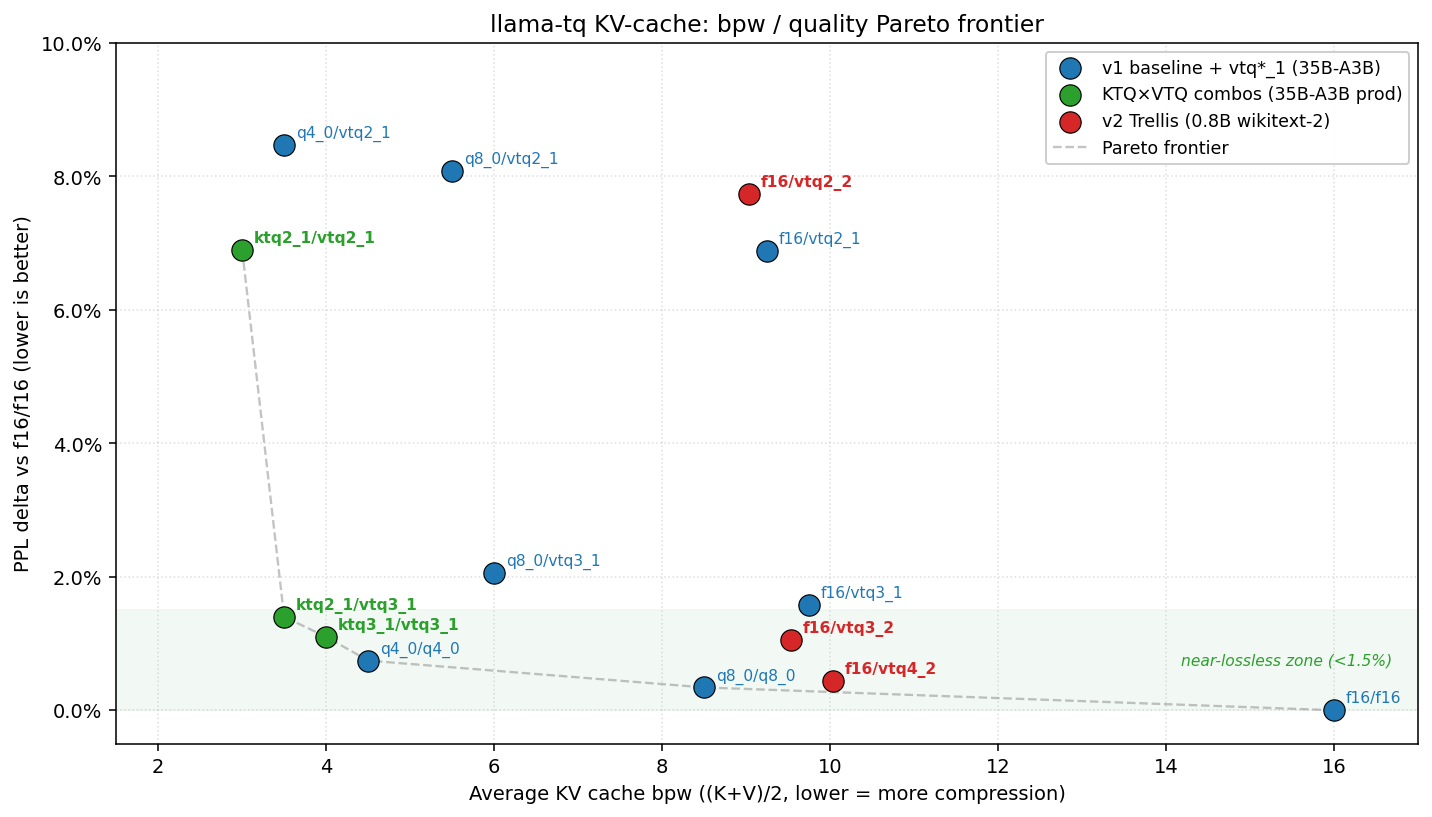
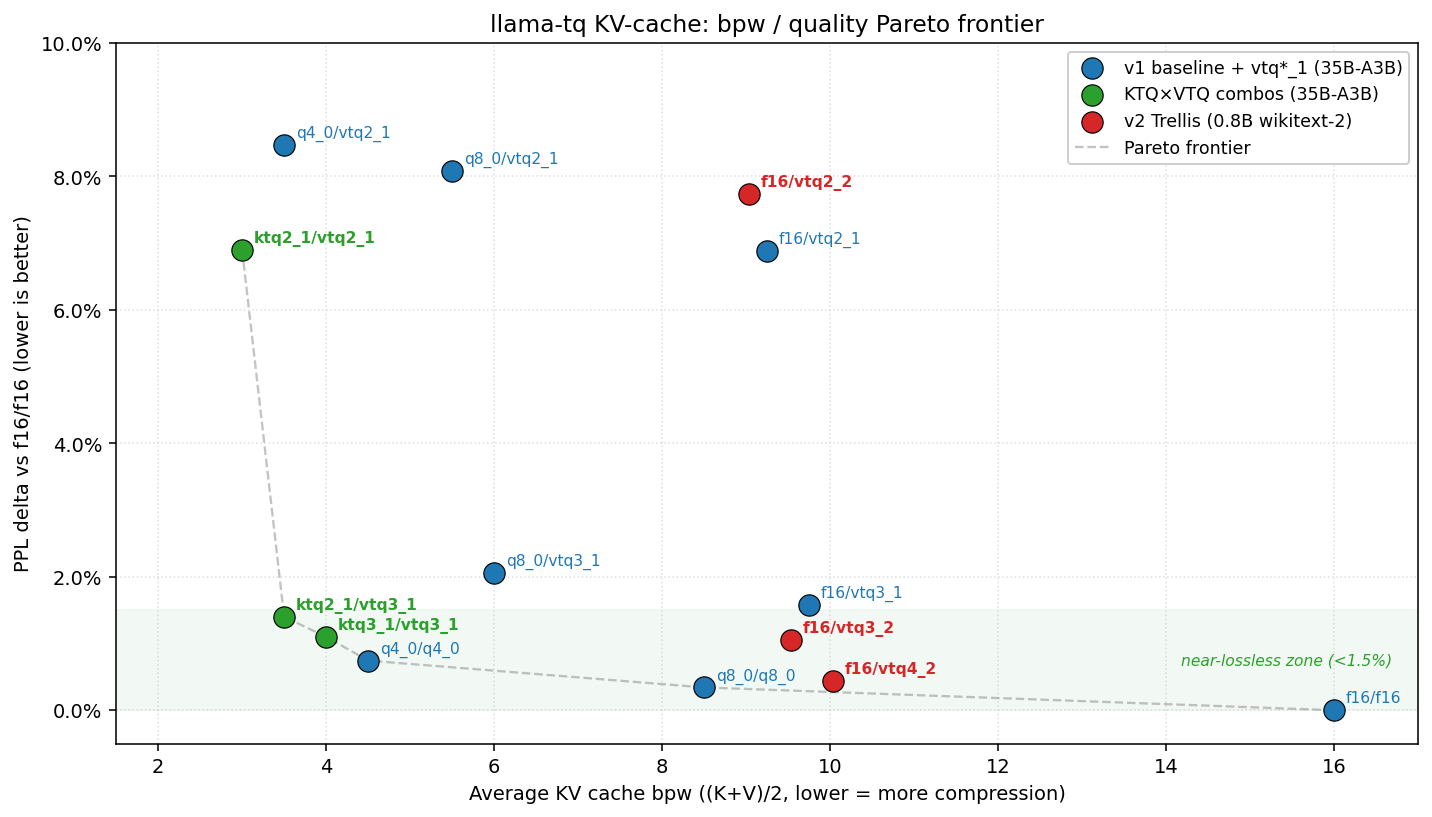
docs: drop remaining 'prod' references (chart label + vtq2_1 row)

Changed region(s): [[0.7374, 0.0612, 0.9832, 0.2142]]

diff --git a/bench/plots/gen_charts.py b/bench/plots/gen_charts.py
@@ -84,7 +84,7 @@ def chart_ppl_vs_bpw():
             v1_points.append((f"{k}/{v}", avg_bpw(k, v),
                               sub["ppl_delta_pct"].mean()))
 
-    # KTQ×VTQ combos — from production deploy measurements on test-rig
+    # KTQ×VTQ combos — measured on the 35B-A3B test box
     # (source: docs/bench-qwen35-122b-a10b.md + devlogs for 35B).
     # These are representative configs not fully in benchmarks.csv yet.
     ktq_vtq_points = [
@@ -113,7 +113,7 @@ def chart_ppl_vs_bpw():
                    edgecolor="black", linewidth=0.6, label=label)
 
     plot_group(v1_points,       "#1f77b4", "o", 120, "v1 baseline + vtq*_1 (35B-A3B)")
-    plot_group(ktq_vtq_points,  "#2ca02c", "o", 120, "KTQ×VTQ combos (35B-A3B prod)", weight="bold")
+    plot_group(ktq_vtq_points,  "#2ca02c", "o", 120, "KTQ×VTQ combos (35B-A3B)",      weight="bold")
     plot_group(v2_points,       "#d62728", "o", 120, "v2 Trellis (0.8B wikitext-2)",  weight="bold")
 
     # Pareto frontier

diff --git a/README.md b/README.md
@@ -87,7 +87,7 @@ Fixed D·H·D rotation (sign-diagonal · FWHT · sign-diagonal) applied once at 
 | Type | Index bits | bpw | Block | Intended use |
 |------|:---:|:---:|:---:|---|
 | `vtq1_1` | 1 | 1.5 | 6 B | extreme VRAM, quality drops sharply |
-| `vtq2_1` | 2 | 2.5 | 10 B | production long-ctx default |
+| `vtq2_1` | 2 | 2.5 | 10 B | long-ctx default |
 | `vtq3_1` | 3 | 4.0 | 16 B | near-f16 V-cache for quality-sensitive work |
 | `vtq4_1` | 4 | 4.5 | 18 B | smallest codebook-fit error of v1 |
 
